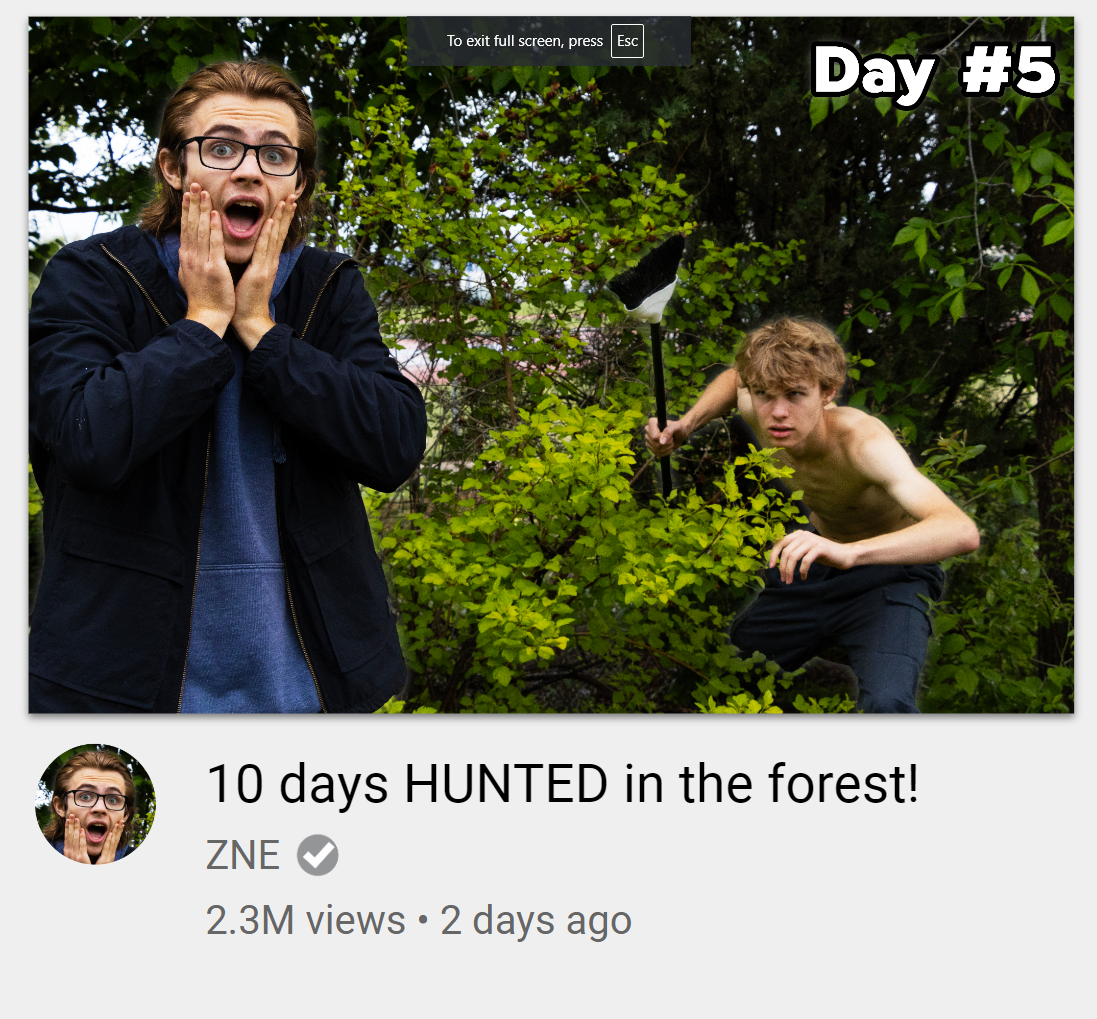
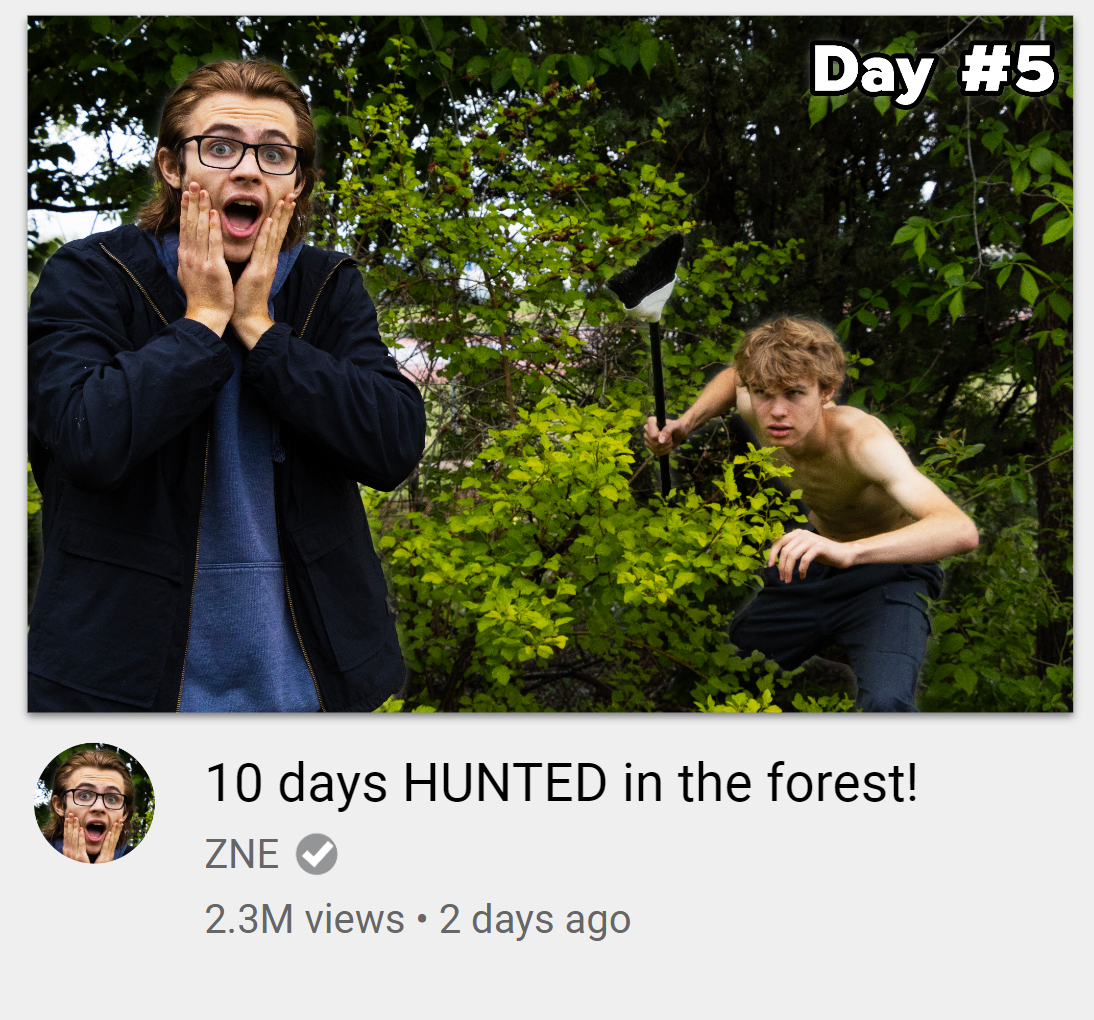
Worked on site responsivity (better scaling of thumbnails).

diff --git a/src/index.scss b/src/index.scss
@@ -100,12 +100,12 @@ justify-content: space-evenly;
 
     // margin: 1rem;
     // min-width: 200px;
-    margin-bottom: 50px;
-    width: 25vw;
-    min-width: 200px;
+    margin-bottom: 5vh;
+    width: clamp(25vw, 300px, 95%);
+    // min-width: 200px;
 
-    margin-left: 1rem;
-    margin-right: 1rem;
+    margin-left: 1vw;
+    margin-right: 1vw;
 
 
     display: flex;
@@ -125,10 +125,14 @@ justify-content: space-evenly;
 
 
     .zcardimg {
-       width: 20vw;
+      width: auto;
+      max-width: 90%;
+      // width: auto;
+      max-height: 90vh;
+      // max-width: 95%;
       
       min-width: 200px;
-      border-radius: 1.5rem;
+      border-radius: 0.5rem;
       margin-top: 1rem;
       filter: drop-shadow(0px 0px 10px $hlshadow);
       // margin-left: 1rem;

diff --git a/src/components/Card.js b/src/components/Card.js
@@ -1,17 +1,21 @@
+import { Link } from "react-router-dom";
 
 
-export default function Card({ imgPath, title, cardStyle='zcard' }) {
+export default function Card({ imgPath, title, link, cardStyle='zcard' }) {
     return(
         <>
-        <div className={'zcard'}>
-
+        <Link to={link} className="zcard">
+        {/* <div> */}
+            
                 <img className="zcardimg" src={imgPath}></img>
                 {/* <ModalImage className="zcardimg" small={imgPath} large={imgPath} hideDownload="true"></ModalImage> */}
 
                 <div className="zcardlabel">
                     <h1 className="zcardtitle">{title}</h1>
                 </div>
-        </div>
+                
+        {/* </div> */}
+        </Link>
     </>
     );
 }

diff --git a/src/components/Games.js b/src/components/Games.js
@@ -6,8 +6,10 @@ export default function Games() {
 
     return(
         <>
-            <div className="whitecard" style={{textAlign:"center"}}>
+            <div className="whitecard alignCenter" >
                 <h1 className="bigtext aligncenter">Games</h1>
+            <p className='aligncenter projectDescription'>Small game projects made by me in Unity and Godot! Playable in browser, <strong>click thumbnail to open game page.</strong></p>
+
                 {/* <GameGallery></GameGallery> */}
                 <GamesToCardlist></GamesToCardlist>
             </div>

diff --git a/src/components/GamesToCardlist.js b/src/components/GamesToCardlist.js
@@ -6,15 +6,15 @@ import { Link } from "react-router-dom";
 const projectElementList = games.map((game) => {
     const gameThumb= require('../images/gamethumbnails/' + game.thumbpath);
     return (
-        <Link to={game.pageslug}>
-            <Card imgPath={gameThumb} title={game.name}></Card>
-        </Link>
+        
+        <Card imgPath={gameThumb} title={game.name} link={game.pageslug}></Card>
+        
     )
 }
 );
 
 
-export default function DesignProjectToCardlist() {
+export default function GamesToCardlist() {
 
 
 
